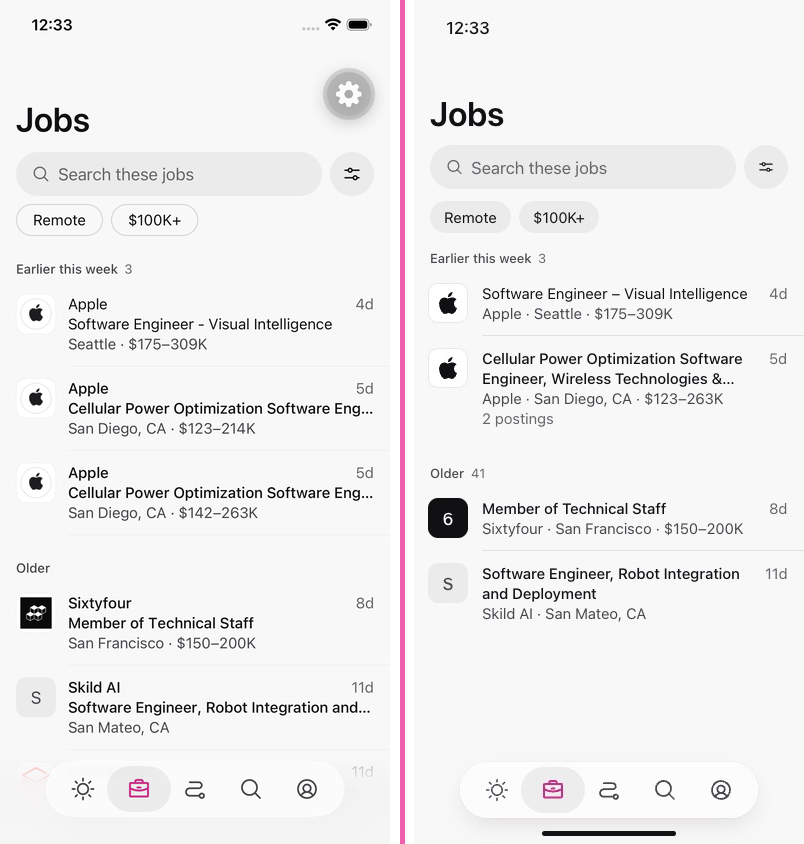
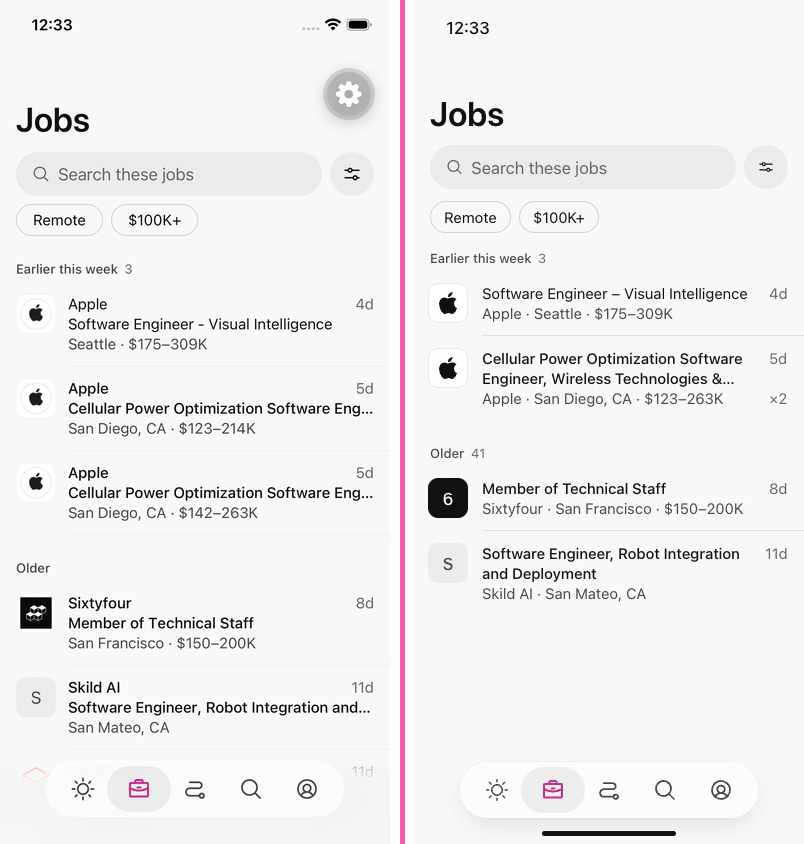
docs: the critic fixes, pass 2 drawings

diff --git a/docs/research/critic-fixes-2026-11-08.md b/docs/research/critic-fixes-2026-11-08.md
@@ -22,31 +22,40 @@ The sheet cross-fade (flow run 4.10) belongs to the other session's
 steps at once. It has been redrawn so the old step leaves in 100ms and the
 new one arrives over 200ms, starting at 80ms.
 
-## Drawn in Paper, for the owner to pick
+## Drawn in Paper, for the owner to pick (pass 2)
 
-1. **Today for a new user.** "Get set up" holds Add your resume and Turn on
-   alerts (the two things You shows as unfinished). Below it, "New for you"
-   shows the top three matches and a "See all jobs" link. No illustration,
-   nothing centred.
+The critic scored the first drawings 6/10. Pass 2 takes up the findings
+that don't contradict an owner decision. Two of its findings stay as they
+are because the owner decided them: the five-tab bar, with Search at the
+bottom (Oct 12 and Oct 22), and a count on every section (Oct 13). One
+it contradicted itself on: it first wanted filled chips to match the
+search field, then said filled chips read as suggestions. The chips stay
+outlined, as they are today.
+
+1. **Today for a new user.**
+   - "Get set up" has one strong step: Add your resume, with the only pink
+     button on the screen.
+   - Alerts is an inline switch.
+   - "New grad jobs this week" lists only this week's jobs, in the same
+     row as Jobs, then a "See all jobs" link.
+   - Plain glyphs: the same style as You.
 2. **Jobs.**
-   - **Title first.** The title leads in Subhead and may wrap to two lines.
-     Line two is "Company · Place · Pay". Rows grow with the title, so the
-     84pt rows go.
+   - **Title first, on Today and Jobs alike.** The title can wrap to two
+     lines, then Company · Place · Pay. Rows grow with the title, so the
+     fixed 84pt rows go.
    - **Identical postings become one row.** Apple's two "Cellular Power
      Optimization Software Engineer, Wireless Technologies & Ecosystems"
-     postings are the same title in the same place with different pay
-     bands. Wrapping the title can't tell them apart, so one row says
-     "2 postings" and gives the combined pay.
-   - **Chips are filled grey capsules,** like the search field and the
-     filter button.
+     postings have the same title in the same place, with different pay
+     bands. Wrapping can't tell them apart, so they become one row with
+     the combined pay and "×2" in the trailing slot (VoiceOver: "2
+     postings").
 3. **You.**
-   - **Sign in with Apple inside the guest card,** under "Your saves stay on
-     this phone".
-   - **Plain glyphs in `ink-2` instead of the tinted tiles.** This replaces
-     the find/apply/pro tile colours on You only; Today's tiles stay.
-   - **Outreach, Plan and Auto-apply move into a "Coming soon" group.**
-     Their labels are dimmed and they have no chevrons. They stay as
-     roadmap signals.
+   - **The guest card** is "Your saves stay on this phone" over Sign in with
+     Apple. The placeholder avatar and "Guest" are gone.
+   - **Plain glyphs in `ink-2`** in place of the tinted tiles.
+   - **One quiet line** at the end, "Coming soon: Outreach, Plan and
+     Auto-apply" with the wrench. It replaces three dimmed rows and keeps
+     the roadmap signal.
 
-Each is a change to an approved design, so nothing is built until the owner
-picks.
+Each is a change to an approved design (title-first rows and the plain
+glyphs especially), so nothing is built until the owner picks.
